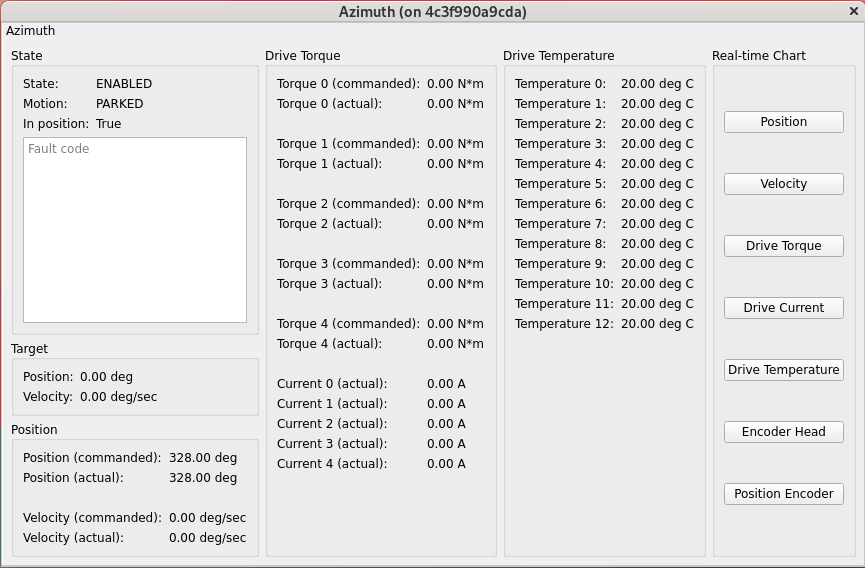
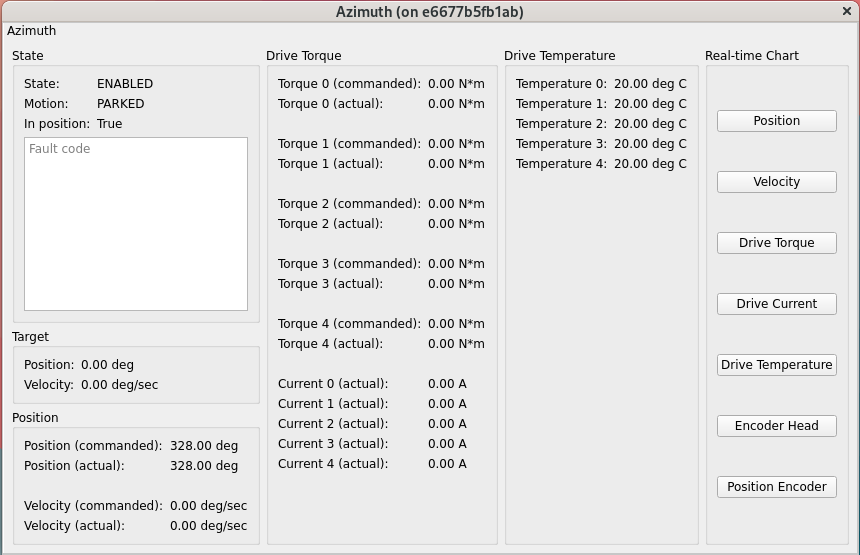
Get the telemetry of THCS and use the 5 azimuth temperatures.

diff --git a/python/lsst/ts/mtdomegui/tab/tab_azimuth.py b/python/lsst/ts/mtdomegui/tab/tab_azimuth.py
@@ -23,11 +23,7 @@ __all__ = ["TabAzimuth"]
 
 import numpy as np
 from lsst.ts.guitool import TabTemplate, create_group_box, create_label
-from lsst.ts.mtdomecom import (
-    AMCS_NUM_MOTOR_TEMPERATURES,
-    AMCS_NUM_MOTORS,
-    AMCS_NUM_RESOLVERS,
-)
+from lsst.ts.mtdomecom import AMCS_NUM_MOTORS, AMCS_NUM_RESOLVERS
 from lsst.ts.xml.enums import MTDome
 from PySide6.QtWidgets import (
     QFormLayout,
@@ -121,7 +117,7 @@ class TabAzimuth(TabTemplate):
         drive_torque_actual = [create_label() for _ in range(AMCS_NUM_MOTORS)]
         drive_torque_commanded = [create_label() for _ in range(AMCS_NUM_MOTORS)]
         drive_current_actual = [create_label() for _ in range(AMCS_NUM_MOTORS)]
-        drive_temperature = [create_label() for _ in range(AMCS_NUM_MOTOR_TEMPERATURES)]
+        drive_temperature = [create_label() for _ in range(AMCS_NUM_MOTORS)]
 
         return {
             "position_actual": create_label(),
@@ -166,7 +162,7 @@ class TabAzimuth(TabTemplate):
                 "Drive Temperature",
                 self.model,
                 "deg C",
-                [str(idx) for idx in range(AMCS_NUM_MOTOR_TEMPERATURES)],
+                [str(idx) for idx in range(AMCS_NUM_MOTORS)],
             ),
             "encoder_head": TabFigure(
                 "Calibrated Encoder Head",
@@ -324,7 +320,7 @@ class TabAzimuth(TabTemplate):
 
         layout = QFormLayout()
 
-        for idx in range(AMCS_NUM_MOTOR_TEMPERATURES):
+        for idx in range(AMCS_NUM_MOTORS):
             layout.addRow(f"Temperature {idx}:", self._status["drive_temperature"][idx])
 
         return create_group_box("Drive Temperature", layout)
@@ -390,8 +386,6 @@ class TabAzimuth(TabTemplate):
             self._status["drive_current_actual"][idx].setText(
                 f"{telemetry['driveCurrentActual'][idx]:.2f} A"
             )
-
-        for idx in range(AMCS_NUM_MOTOR_TEMPERATURES):
             self._status["drive_temperature"][idx].setText(
                 f"{telemetry['driveTemperature'][idx]:.2f} deg C"
             )
@@ -407,7 +401,12 @@ class TabAzimuth(TabTemplate):
 
         self._figures["drive_torque"].append_data(telemetry["driveTorqueActual"])
         self._figures["drive_current"].append_data(telemetry["driveCurrentActual"])
-        self._figures["drive_temperature"].append_data(telemetry["driveTemperature"])
+
+        # At the moment, this is an array of 13 elements. Only the first 5
+        # are used.
+        self._figures["drive_temperature"].append_data(
+            telemetry["driveTemperature"][:AMCS_NUM_MOTORS]
+        )
 
         self._figures["encoder_head"].append_data(telemetry["encoderHeadCalibrated"])
         self._figures["position_encoder"].append_data(

diff --git a/tests/tab/test_tab_azimuth.py b/tests/tab/test_tab_azimuth.py
@@ -23,7 +23,7 @@ import asyncio
 import logging
 
 import pytest
-from lsst.ts.mtdomecom import AMCS_NUM_MOTOR_TEMPERATURES, AMCS_NUM_MOTORS
+from lsst.ts.mtdomecom import AMCS_NUM_MOTORS
 from lsst.ts.mtdomecom.schema import registry
 from lsst.ts.mtdomegui import Model, generate_dict_from_registry
 from lsst.ts.mtdomegui.tab import TabAzimuth
@@ -43,7 +43,7 @@ def widget(qtbot: QtBot) -> TabAzimuth:
 def test_init(widget: TabAzimuth) -> None:
 
     assert len(widget._status["drive_torque_actual"]) == AMCS_NUM_MOTORS
-    assert len(widget._status["drive_temperature"]) == AMCS_NUM_MOTOR_TEMPERATURES
+    assert len(widget._status["drive_temperature"]) == AMCS_NUM_MOTORS
 
 
 @pytest.mark.asyncio

diff --git a/python/lsst/ts/mtdomegui/model.py b/python/lsst/ts/mtdomegui/model.py
@@ -119,13 +119,13 @@ class Model:
                 LlcName.LWSCS: self.callback_status_lwscs,
                 LlcName.MONCS: self.callback_status_moncs,
                 LlcName.RAD: self.callback_status_rad,
-                LlcName.THCS: self.callback_status_thcs,
             }
             if self._is_simulation_mode
             else {
                 LlcName.AMCS: self.callback_status_amcs,
                 LlcName.APSCS: self.callback_status_apscs,
                 LlcName.CBCS: self.callback_status_cbcs,
+                LlcName.THCS: self.callback_status_thcs,
             }
         )
 

diff --git a/doc/version_history.rst b/doc/version_history.rst
@@ -6,6 +6,15 @@
 Version History
 ##################
 
+.. _lsst.ts.mtdomegui-0.4.7:
+
+-------------
+0.4.7
+-------------
+
+* Get the status of thermal control system.
+* Use the first 5 elements of the azimuth temperature telemetry.
+
 .. _lsst.ts.mtdomegui-0.4.6:
 
 -------------
